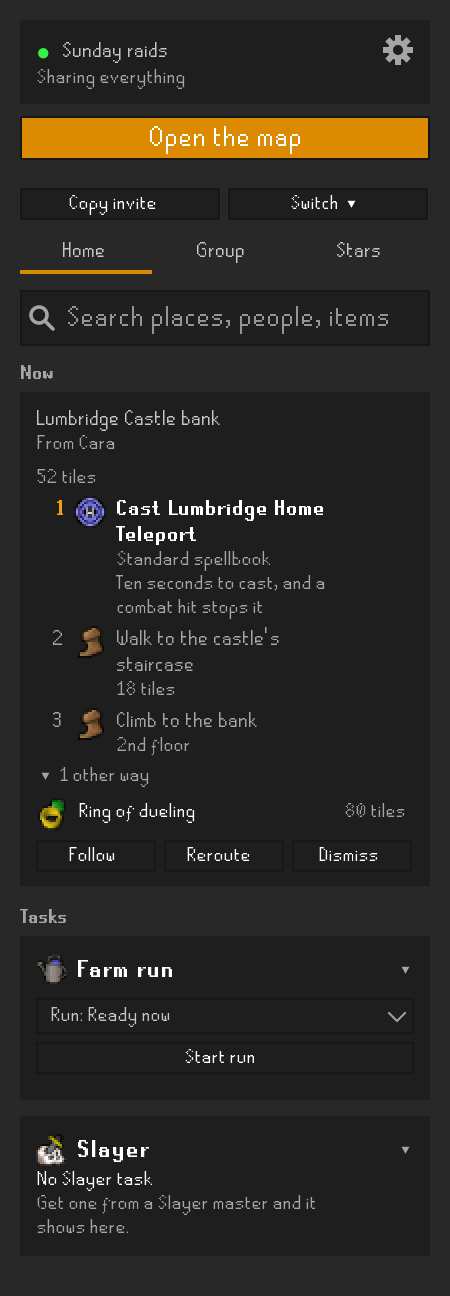
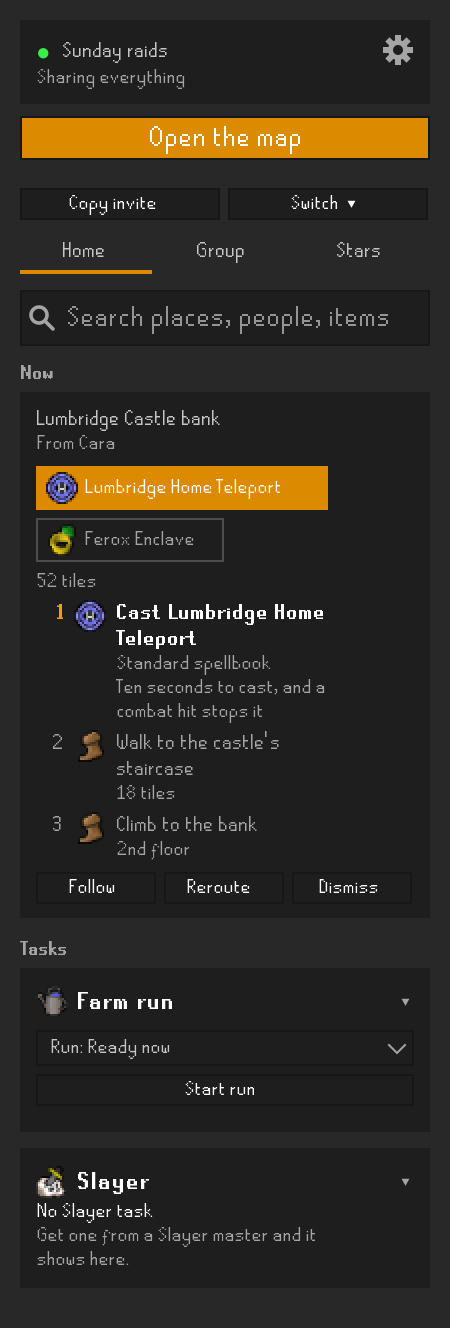
Paint the Hub page's pictures with the ways as chips and the numbers at the right
Eight of the page's pictures showed a sidebar that is no longer drawn: a fold reading "▸ 1 other
way" under a route's steps, a search row whose distance had wrapped to a third line, a farm run
with no lengths, friends with no world, a star site's fold pointing the old way, and charting
tasks wrapped at a width the sidebar does not give them.

They are painted again from the same scenes on the same renderer: the route and the Quest Helper
step with their chips over the steps, the voyage without its fold, the search, the farm run, the
charting run, the Group tab and the Stars tab. Their alt text says what they show, and the page
gains one sentence, that a chip is pressed to take another way, and a few words where a stop's
length and a friend's world are now on screen. The other pictures were painted too and are left:
the port-task run came out the same pixel for pixel, and Slayer, Drop luck and Settings differ
only in the glyphs each machine draws from its own fallback font.

The voyage's picture read the contract's route, whose other ways the fold used to hide. As chips
they would stand over a sail to Catherby and name the ways to a bank in Lumbridge, a route nobody
is sent, so the scene now keeps the voyage as the one way there and its picture has no strip. The
note beside the pictures records the scenes, the command, what was left and why.

diff --git a/docs/review-evidence/sailing-voyage-2026-11-01/VoyageShot.java b/docs/review-evidence/sailing-voyage-2026-11-01/VoyageShot.java
@@ -50,11 +50,17 @@ public class VoyageShot
 		SwingUtilities.invokeAndWait(RuneLiteLAF::setup);
 		String reply = new String(Files.readAllBytes(Paths.get("src", "test", "resources", "contract", "reply.json")), StandardCharsets.UTF_8);
 		RelayResponse.Destination destination = new Gson().fromJson(reply, RelayResponse.class).directive.destination;
-		destination.route.options.get(3).voyage.gates.get(0).tier = "unmet";
-		destination.route.options.get(3).voyage.gates.get(0).text = "76 Sailing";
+		/*
+		 * The voyage alone, as the one way there. The fixture sets it among the ways to a bank in
+		 * Lumbridge, and a strip naming those over a sail to Catherby would show a route nobody is sent.
+		 */
+		RelayResponse.RouteOption voyage = destination.route.options.get(3);
+		voyage.best = true;
+		voyage.voyage.gates.get(0).tier = "unmet";
+		voyage.voyage.gates.get(0).text = "76 Sailing";
+		destination.route.options = new java.util.ArrayList<>(java.util.Collections.singletonList(voyage));
 		DestinationRoute route = new DestinationRoute();
 		route.sync(destination, null);
-		route.choose(3);
 		Map<Integer, String> moored = new HashMap<>();
 		moored.put(1, "Port Sarim");
 		String out = args[0];

diff --git a/docs/review-evidence/readme-2026-11-13.md b/docs/review-evidence/readme-2026-11-13.md
@@ -1,0 +1,115 @@
+# README pictures — 13 November 2026
+
+A review of the sidebar as released in 1.9.0 changed eight pictured surfaces: the ways to a
+destination are a strip of chips over its steps, a search row and a farm stop say how far at the
+right, a friend's row leads with their world, a star site's fold points the way every other fold
+does, and a long charting task wraps beside its length. `docs/sidebar-layout.md` says what each is,
+under *Ways as chips, and a number at the right*. These are the eight pictures painted again.
+Every other picture is as `readme-2026-11-02.md`, `readme-2026-11-06.md` and
+`tasks-cards-2026-11-11.md` record it.
+
+## How they were made
+
+As on 2 November: the real Swing component painted at the sidebar's 225px, 2× into a 450px-wide
+PNG, with RuneLite 1.13.4's look and feel, by `sidebar-polish-2026-10-29/SidebarPolishShot.java`
+and `sailing-voyage-2026-11-01/VoyageShot.java`. From the plugin root, after
+`./gradlew harnessJar -PruneLiteVersion=1.13.4`, on Windows with JDK 25:
+
+```sh
+cp=$(tr -d '\r\n' < build/harness/classpath.txt)
+javac -proc:none -encoding UTF-8 --release 11 -cp "$cp" -d build/readme-shot-classes \
+  docs/review-evidence/sidebar-polish-2026-10-29/*.java docs/review-evidence/sailing-voyage-2026-11-01/*.java
+export OSRS_MAP_PUBLIC=../osrs-stars-map/public
+run="java -Djava.awt.headless=true -Duser.timezone=Asia/Bangkok \
+  -Dchart.run=docs/review-evidence/chart-run-2026-11-12/kharidian-sea.json \
+  -Dlogback.configurationFile=docs/review-evidence/sharing-sidebar-2026-10-11/logback.xml -cp build/readme-shot-classes;$cp"
+$run com.pbolduc.mapcompanion.SidebarPolishShot <out> route search-whip-card farm-count group stars-route \
+  dropluck-card slayer-card settings-closed port-run chart-run quest-route
+$run com.pbolduc.mapcompanion.VoyageShot <out>
+```
+
+The time zone only puts the meetups' clocks in an evening at the hour it was painted, and
+`-Dchart.run=` gives `chart-run` the kept run, as before. No request leaves the machine: the map
+address is a port nothing listens on. Painted twice, the two sets were the same pixel for pixel.
+
+| Picture | Scene | Painted | Was |
+| --- | --- | --- | --- |
+| `sidebar-route.png` | `route`, Home | 225×664 | 225×648 |
+| `sidebar-quest-step.png` | `quest-route`, the card alone | 225×257 | 225×223 |
+| `sidebar-search.png` | `search-whip-card`, the search alone | 225×167 | 225×179 |
+| `sidebar-farm-run.png` | `farm-count`, the card alone | 225×318 | 225×318 |
+| `sidebar-chart-run.png` | `chart-run` with the kept run | 225×572 | 225×533 |
+| `sidebar-voyage.png` | VoyageShot's `voyage-sail` | 225×147 | 225×165 |
+| `sidebar-group.png` | `group` | 225×539 | 225×539 |
+| `stars-tab-list.png` | `stars-route` | 225×643 | 225×643 |
+
+The README keeps each picture's width, 300px or 225px.
+
+## What each one shows now
+
+- **`sidebar-route.png` and `sidebar-quest-step.png`.** The fold *▸ 1 other way* under the steps is
+  gone. Over the steps are two chips, *Lumbridge Home Teleport* with the spell's icon, filled in
+  orange, and *Ferox Enclave* with the ring of dueling, and the line under them is the chosen
+  way's length, *52 tiles*. The steps and the buttons are as they were.
+- **`sidebar-voyage.png`.** The fold under the steps, *▸ 3 other ways*, is gone and nothing took
+  its place: the scene is the voyage as the one way there, so it has no strip, and the line over
+  the steps still reads *Docking point · 1340 tiles*.
+- **`sidebar-search.png`.** Each monster's distance is at the right of its name, *~210t* and
+  *~380t*, and the grey line under it is the place alone; *~210 tiles* had wrapped to a third line.
+- **`sidebar-farm-run.png`.** The count reads *2 of 3 tracked done · 29 tiles left*, and Catherby,
+  the stop still ahead, has *29t* at the right of its name.
+- **`sidebar-chart-run.png`.** Each task wraps beside its length rather than at the card's full
+  width, so three of the eight take a line more. Nothing it says changed.
+- **`sidebar-group.png`.** Cara's line is *W302 · near Lumbridge Castle · Near you* and Dax's
+  *W330 · in an instance*. The meetups' clocks are the hour it was painted.
+- **`stars-tab-list.png`.** Rimmington mine's open fold reads *+2 ▾* and the Mining Guild's closed
+  one *+1 ▸*, where they read *+2 ▴* and *+1 ▾*. Nothing else differs.
+
+## What the renderer needed
+
+- **The voyage alone.** `VoyageShot` reads the contract reply, a route to Lumbridge Castle bank
+  with a voyage to Catherby set among its ways. Behind the fold the other three did not show; as
+  chips they would stand over the sail and name a route nobody is sent. The scene now keeps the
+  voyage as the one way, which is what a place only a boat reaches is sent.
+- `SidebarPolishShot`'s `route` scene had already stopped pressing the fold open, in the commit
+  that drew the chips.
+
+## Painted and left as they are
+
+Every README scene was painted and laid over the committed picture.
+
+- **`sidebar-port-tasks.png`** (`port-run`) is the same, pixel for pixel. A stop's name gives up
+  its length's width now, but none of the fixture's four names is long enough to wrap.
+- **`sidebar-slayer.png`**, **`sidebar-drop-luck.png`** and **`sidebar-settings.png`** say what
+  they said. They differ from this machine's paint only in glyphs the RuneScape font lacks, the
+  fold marks, a tick, an arrow and a *›*, which each machine draws from its own fallback font,
+  so the committed pictures stand.
+- **`stars-tab-pinned.png`** and **`sidebar-home.png`** are shown by no document, and were not
+  painted for this.
+- **`tasks-cards-before.png`, `-after.png` and `-folded.png`** are the record of 11 November's
+  change in `docs/sidebar-layout.md`, painted with that day's Slayer list. Their idle port tasks
+  still read as sentences, as they did that day; the tasks' counts are in no README picture.
+- The website's pictures are the website's, and nothing here changed it.
+
+## Limits
+
+- **No game ran.** RuneLite was not launched; every value is synthetic and every name made up.
+  Sprites are the website's copies of the game's art, or the three kept beside the renderer.
+- **No picture shows a voyage among other ways.** The strip over a sail, with the boat's chip
+  beside a teleport's, is drawn by the code and held by `RouteStepsViewTest`, and is in no
+  picture here.
+- **No world is green.** The Group scene does not file the player's world, for the gap a second
+  colour opens at 2×, as `readme-2026-11-02.md` says, so Cara's *W302* keeps the line's grey; a
+  client on W302 draws it green. The destination card's green world is in no picture.
+- **Not yet seen in a live client**, as `docs/live-checks.md` lists: the chips and a press on
+  one, a pick kept through Reroute, a search row's distance, a farm stop's length and the tiles
+  left, a friend's world, and the fold's arrow.
+
+## Verification
+
+Each of the eight was looked at beside the picture it replaces, for a cut word, an overlap or a
+missing sprite, and found none. `clean build -PruneLiteVersion=1.13.4` passed: 1,140 tests.
+`readme-phone-preview.mjs` loaded all sixteen of the README's pictures at 320, 390 and 736px in
+both themes with no horizontal overflow and every internal link resolved, from a local conversion
+of the README's Markdown, so the check made no request; *Routes in RuneLite* was looked at on the
+390px page in the dark theme.

diff --git a/README.md b/README.md
@@ -16,13 +16,14 @@ quests, route to them, and plan meetups.
 ## Routes in RuneLite
 
 <p>
-  <img src="docs/mockups/sidebar-route.png" width="300" alt="Home in the plugin sidebar with a route to Lumbridge Castle bank: numbered steps, the current one, casting Lumbridge Home Teleport, with its number in amber beside the spell's icon, a walking boot beside each walk, a ring of dueling as the other way, and Follow, Reroute and Dismiss; under Tasks, the Farm run and Slayer cards">
+  <img src="docs/mockups/sidebar-route.png" width="300" alt="Home in the plugin sidebar with a route to Lumbridge Castle bank: the two ways there as chips over the steps, Lumbridge Home Teleport filled in orange and a ring of dueling to Ferox Enclave under it, then 52 tiles and the numbered steps, the current one, casting Lumbridge Home Teleport, with its number in amber beside the spell's icon, a walking boot beside each walk, and Follow, Reroute and Dismiss; under Tasks, the Farm run and Slayer cards">
 </p>
 
 Pick a place, a search result or a task, and the sidebar lists the way there step by step: which
 teleport to use, which ride to take, where to walk. A teleport step shows the item or spell, and
 outlines it in your inventory or spellbook while you follow; a walk shows a boot and a sail a boat. Each step gets a numbered pin on the
 game's world map, and you can right-click that map and choose **Route here** to go anywhere.
+When there is more than one way, each is a chip above the steps: press one to take it instead.
 
 Press **Follow** to keep the step you are on in a small box over the game. **Reroute** plans
 again from where you stand. Share **Your account** and routes use only the quests,
@@ -32,7 +33,7 @@ diaries, items and unlocks your account has.
 Shortest Path draws the walks.
 
 <p>
-  <img src="docs/mockups/sidebar-quest-step.png" width="225" alt="The Quest Helper step card on Home after Route: 52 tiles, casting Lumbridge Home Teleport, walking to the castle staircase and climbing to the bank, a boot beside each walk, with Pause, Reroute and Dismiss">
+  <img src="docs/mockups/sidebar-quest-step.png" width="225" alt="The Quest Helper step card on Home after Route: the two ways as chips, Lumbridge Home Teleport filled in orange, then 52 tiles, casting Lumbridge Home Teleport, walking to the castle staircase and climbing to the bank, a boot beside each walk, with Pause, Reroute and Dismiss">
 </p>
 
 **Works with Quest Helper.** With Quest Helper's *Use 'Shortest Path' plugin* setting on, Home shows
@@ -42,7 +43,7 @@ Shortest Path does not say which plugin sent it, so another plugin's path can sh
 ## Search for a place or item
 
 <p>
-  <img src="docs/mockups/sidebar-search.png" width="300" alt="Searching for whip: Abyssal demon and Abyssal Sire under Dropped by, and under Items the Abyssal whip, dropped by 3 monsters">
+  <img src="docs/mockups/sidebar-search.png" width="300" alt="Searching for whip: Abyssal demon and Abyssal Sire under Dropped by, each with how far away it is at the right of its row, and under Items the Abyssal whip, dropped by 3 monsters">
 </p>
 
 Search banks, shops, NPCs, monsters and items from **Home**. An item shows the monsters that drop
@@ -63,12 +64,12 @@ The Farm run, Slayer and Port tasks cards each fold away under their heading.
 ## Farm runs in RuneLite
 
 <p>
-  <img src="docs/mockups/sidebar-farm-run.png" width="300" alt="A farm run's card in the sidebar: a bar two thirds full over 2 of 3 tracked done, Before you leave counting one teleport not on you, Falador done and folded to one line, Catherby next with its number in amber and This leg's steps under it, the birdhouse done and the bank visited, and Pause, Reroute and End run">
+  <img src="docs/mockups/sidebar-farm-run.png" width="300" alt="A farm run's card in the sidebar: a bar two thirds full over 2 of 3 tracked done and 29 tiles left, Before you leave counting one teleport not on you, Falador done and folded to one line, Catherby next with its number in amber, its 29 tiles at the right and This leg's steps under it, the birdhouse done and the bank visited, and Pause, Reroute and End run">
 </p>
 
 Start a run from **Ready now**, **Birdhouses** or your farming contract, or build one on the
-website. The sidebar lists each stop and the way to it, checks in the bank which teleports you
-are missing, and ticks a stop off once you have replanted it.
+website. The sidebar lists each stop, the way to it and how far it is, checks in the bank which
+teleports you are missing, and ticks a stop off once you have replanted it.
 **Dailies run** visits every daily your diaries and quests allow, leaving out what you have
 collected today when **Dailies collected** is on.
 
@@ -112,10 +113,11 @@ Hardcore or League world it lists that game's stars instead.
 ## Friends and meetups
 
 <p>
-  <img src="docs/mockups/sidebar-group.png" width="300" alt="The Group tab: three friends with their initials on their discs and a dot in each corner for online, idle or offline, Route beside a name, a Woodcutting level, an Abyssal whip drop and a quest finished, then a star-hunt meetup with each answer and who gave it, and tomorrow's raid folded to one line">
+  <img src="docs/mockups/sidebar-group.png" width="300" alt="The Group tab: three friends with their initials on their discs and a dot in each corner for online, idle or offline, Route beside a name, the world a friend is on before where they are, a Woodcutting level, an Abyssal whip drop and a quest finished, then a star-hunt meetup with each answer and who gave it, and tomorrow's raid folded to one line">
 </p>
 
-**Group** shows where your friends are and their latest levels, drops, quests and diaries.
+**Group** shows where your friends are, on which world, and their latest levels, drops, quests
+and diaries.
 **Route** takes you to a friend. **Meet here…** sets a meetup everyone can answer: Going, Maybe,
 Can't or On my way. It is where you stand, or anywhere you right-click on the game's world map.
 
